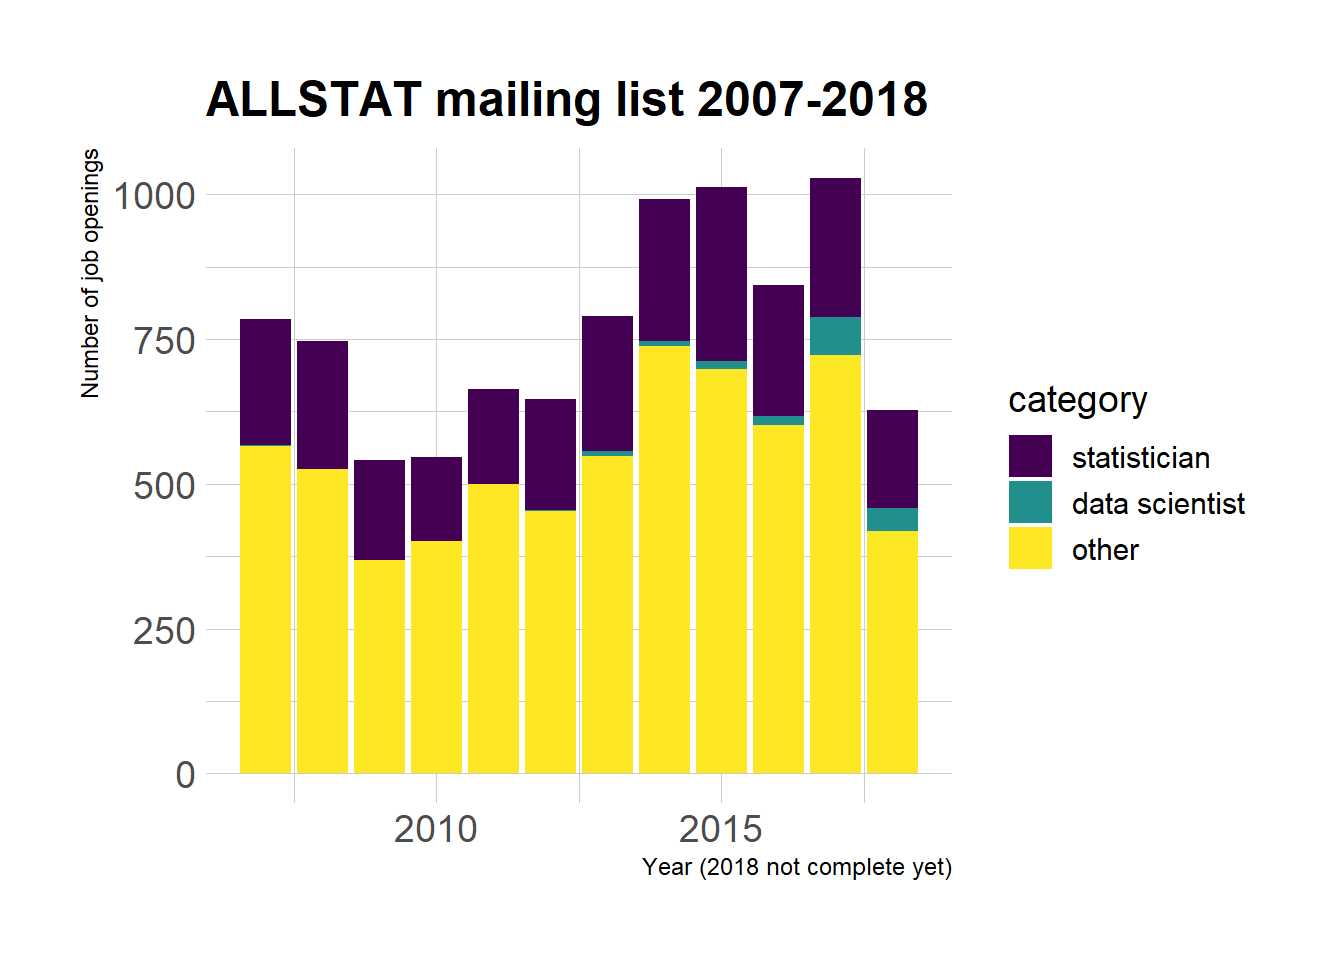
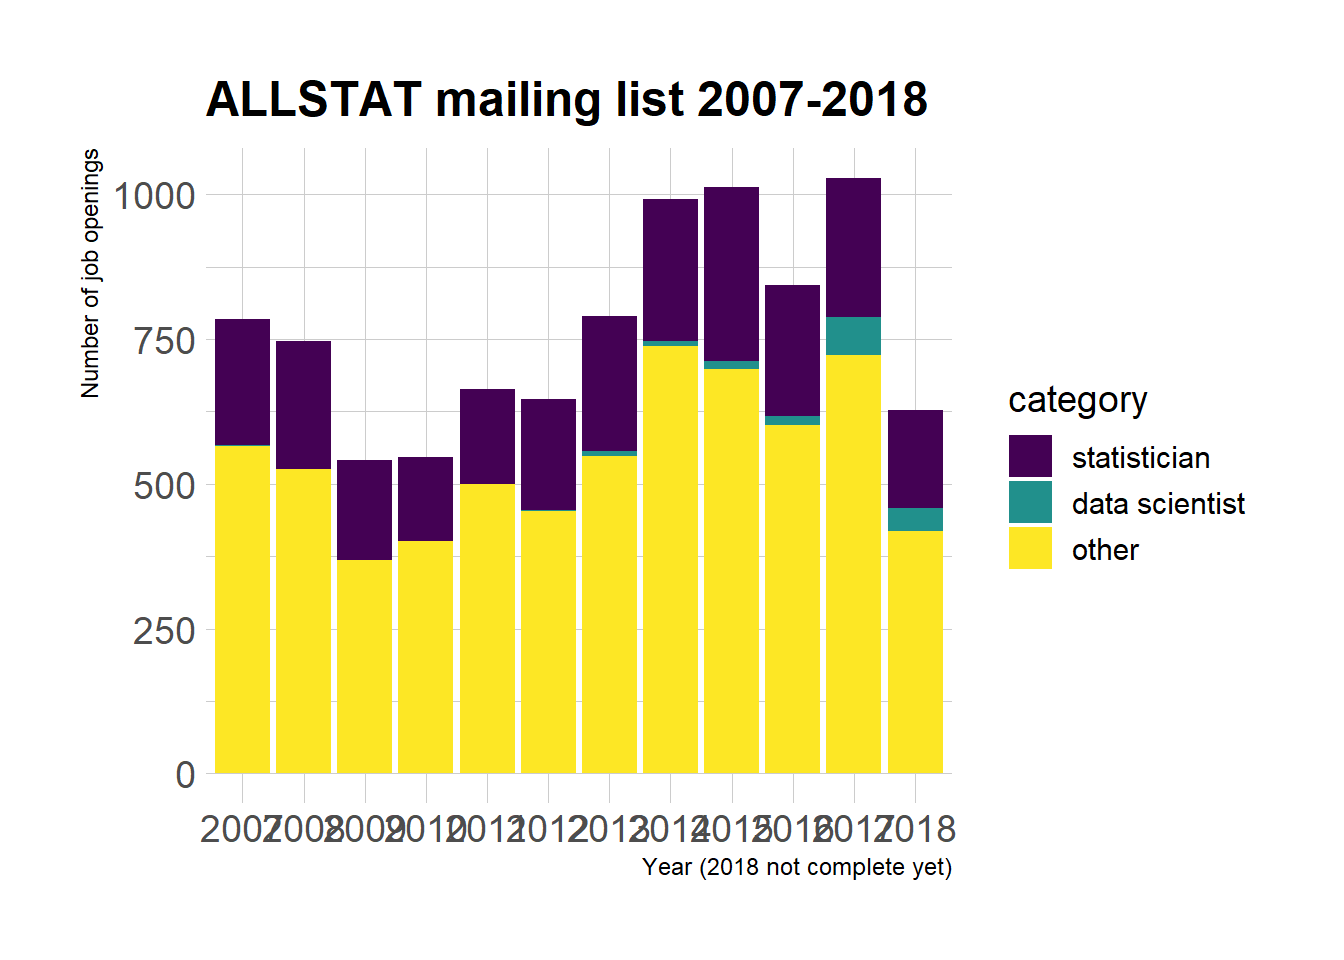
make years a factor

Changed region(s): [[0.4688, 0.1875, 0.7188, 0.8125], [0.1562, 0.3125, 0.4062, 0.8125], [0.1562, 0.8438, 0.7188, 0.875]]

diff --git a/content/post/2018-07-31-alldatascience.html b/content/post/2018-07-31-alldatascience.html
@@ -1,4 +1,5 @@
 ---
+draft: yes
 title: 'ALLSTATisticians in decline? A polite look at ALLSTAT email Archives'
 date: '2018-07-31'
 tags:
@@ -264,7 +265,8 @@ jobs &lt;- dplyr::mutate(jobs,
                                         ordered = TRUE))
 
 jobs &lt;- dplyr::mutate(jobs,
-                      year = lubridate::year(date))</code></pre>
+                      year = lubridate::year(date),
+                      year = as.factor(year))</code></pre>
 <p>Here are some examples of positions for each:</p>
 <pre class="r"><code>head(jobs$subject[jobs$category==&quot;statistician&quot;])</code></pre>
 <pre><code>## [1] &quot;FW: JOB: Senior/Lead Statistician - GlaxoSmithKline&quot;                   
